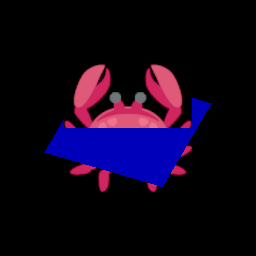
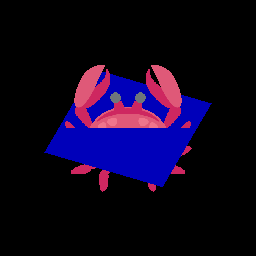
fix: billboard alpha was ignored

diff --git a/engine/src/glium_backend/graphics/mod.rs b/engine/src/glium_backend/graphics/mod.rs
@@ -270,6 +270,12 @@ impl GliumGraphics {
         let mut uniforms = None;
         let mut current_texture = None;
 
+        let sampler_behavior = glium::uniforms::SamplerBehavior {
+            minify_filter: glium::uniforms::MinifySamplerFilter::Nearest,
+            magnify_filter: glium::uniforms::MagnifySamplerFilter::Nearest,
+            ..Default::default()
+        };
+
         for (draw_mode, draw_parameters) in self.draw_modes() {
             for billboard in self
                 .billboards
@@ -279,10 +285,15 @@ impl GliumGraphics {
             {
                 if current_texture != Some(billboard.texture) {
                     current_texture = Some(billboard.texture);
+                    let texture = self.textures.get(billboard.texture).ok_or(format!(
+                        "Billboard refers to missing texture {}",
+                        billboard.texture
+                    ))?;
+                    let sampler = glium::uniforms::Sampler(texture, sampler_behavior);
                     uniforms = Some(glium::uniform! {
                         transform: self.projection.projection(),
                         scale: self.projection.scale(),
-                        tex: self.textures.get(billboard.texture).ok_or(format!("Billboard refers to missing texture {}", billboard.texture))?
+                        tex: sampler
                     });
                 }
                 if let Some(uniforms) = uniforms {

diff --git a/engine/src/glium_backend/graphics/tests.rs b/engine/src/glium_backend/graphics/tests.rs
@@ -352,7 +352,7 @@ fn render_billboard() {
                     },
                 },
             })),
-            light_direction: xyz(-1.0, 0.0, 0.0),
+            light_direction: xyz(1.0, 0.0, 0.0),
         },
         &event_loop,
     )
@@ -370,6 +370,7 @@ fn render_billboard() {
         },
         texture,
     };
+
     let index = graphics.create_billboards().unwrap();
     graphics
         .draw_billboard(&index, DrawMode::Solid, &billboard)
